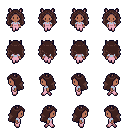
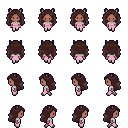
fix(personagens): quadros laterais olhando pro mesmo lado (a IA misturava dentro da linha)

Changed region(s): [[0.7812, 0.8125, 0.9688, 1.0], [0.7812, 0.5625, 0.9688, 0.75]]

diff --git a/art/tools/clean_sheet.py b/art/tools/clean_sheet.py
@@ -116,6 +116,20 @@ def main_only(cell: Image.Image) -> Image.Image:
     return out
 
 
+def similarity(a: Image.Image, b: Image.Image) -> int:
+    pa, pb = a.load(), b.load()
+    return sum(1 for y in range(a.height) for x in range(a.width)
+               if pa[x, y][3] and pb[x, y][3] and sum(abs(pa[x, y][i] - pb[x, y][i]) for i in range(3)) < 60)
+
+
+def same_side(row: list[Image.Image]) -> list[Image.Image]:
+    """Põe todos os quadros olhando pro mesmo lado: cada um fica na orientação que mais se parece com o
+    1º quadro; se a maioria precisou virar, era o 1º que estava do lado errado e vira tudo de volta."""
+    flips = [similarity(ImageOps.mirror(c), row[0]) > similarity(c, row[0]) for c in row]
+    out = [ImageOps.mirror(c) if f else c for c, f in zip(row, flips)]
+    return [ImageOps.mirror(c) for c in out] if sum(flips) * 2 > len(row) else out
+
+
 def sheet(img: Image.Image, p=10.24, mirror_right=False, swap_sides=False, side_col3=False, main=False) -> Image.Image:
     img = img.convert("RGB")
     hx, hy = edges(img)
@@ -133,6 +147,8 @@ def sheet(img: Image.Image, p=10.24, mirror_right=False, swap_sides=False, side_
             cells[r][c] = main_only(align(big)) if main else align(big)
     if side_col3:  # a IA às vezes desenha o 3º quadro da lateral de frente: repete o quadro parado
         cells[2][2] = cells[2][0]
+    if mirror_right:  # a IA mistura o lado do rosto dentro da mesma linha: desvira os quadros da minoria
+        cells[2] = same_side(cells[2])
     if mirror_right:  # a IA às vezes repete o mesmo lado nas duas linhas laterais
         cells[3] = [ImageOps.mirror(c) for c in cells[2]]
     if swap_sides:  # linhas de esquerda e direita vieram trocadas
@@ -156,6 +172,9 @@ def selftest():
     box = cell.getbbox()
     assert box[2] - box[0] == 10 and box[3] == 32, box  # 10 px de largura, pés na última linha
     assert cell.getpixel((box[0], 31))[:3] == (40, 30, 50) and cell.getpixel((box[0] + 5, 27))[:3] == (240, 180, 200)
+    a = Image.new("RGBA", (32, 32)); a.paste((40, 30, 50, 255), (4, 10, 12, 30))  # bloco à esquerda
+    fixed = same_side([a, a, ImageOps.mirror(a), a])
+    assert all(f.tobytes() == a.tobytes() for f in fixed), "quadro espelhado não foi desvirado"
     print("selftest ok")
 
 
